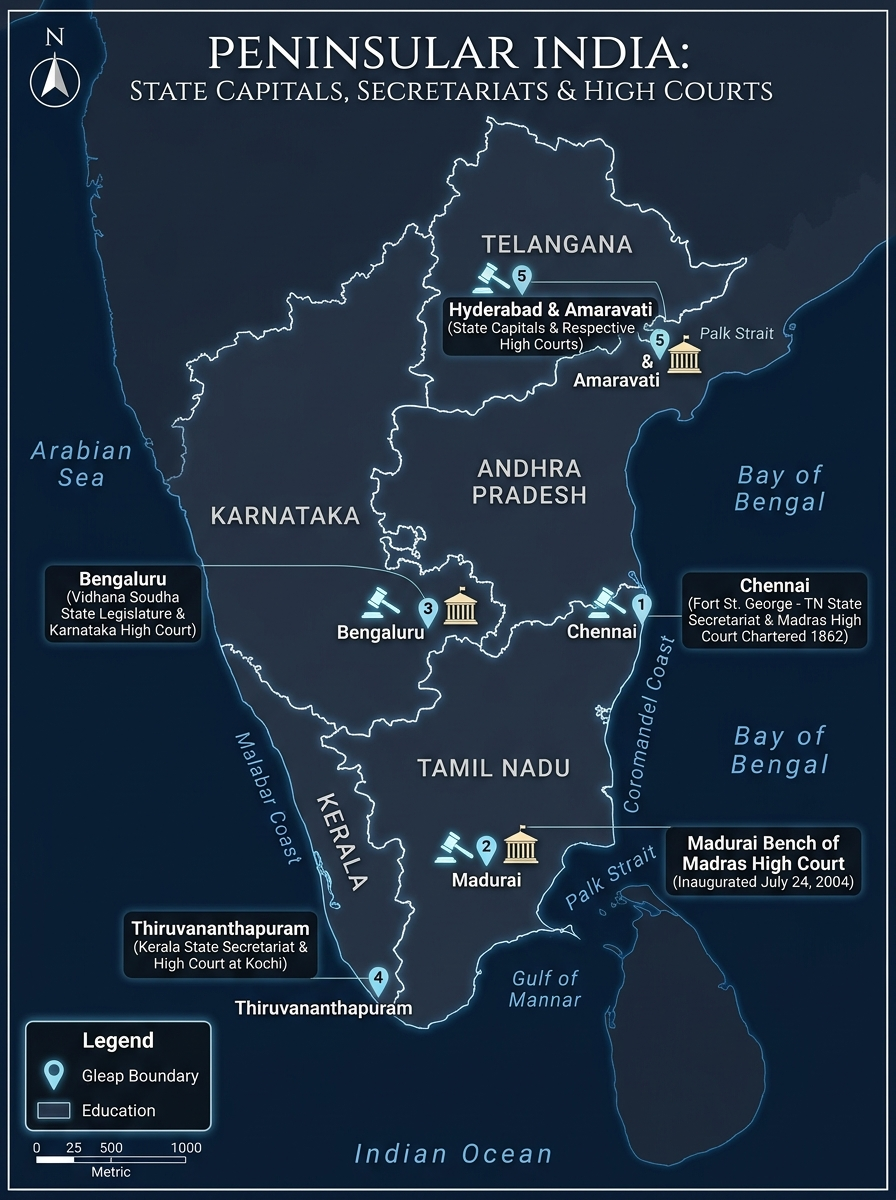
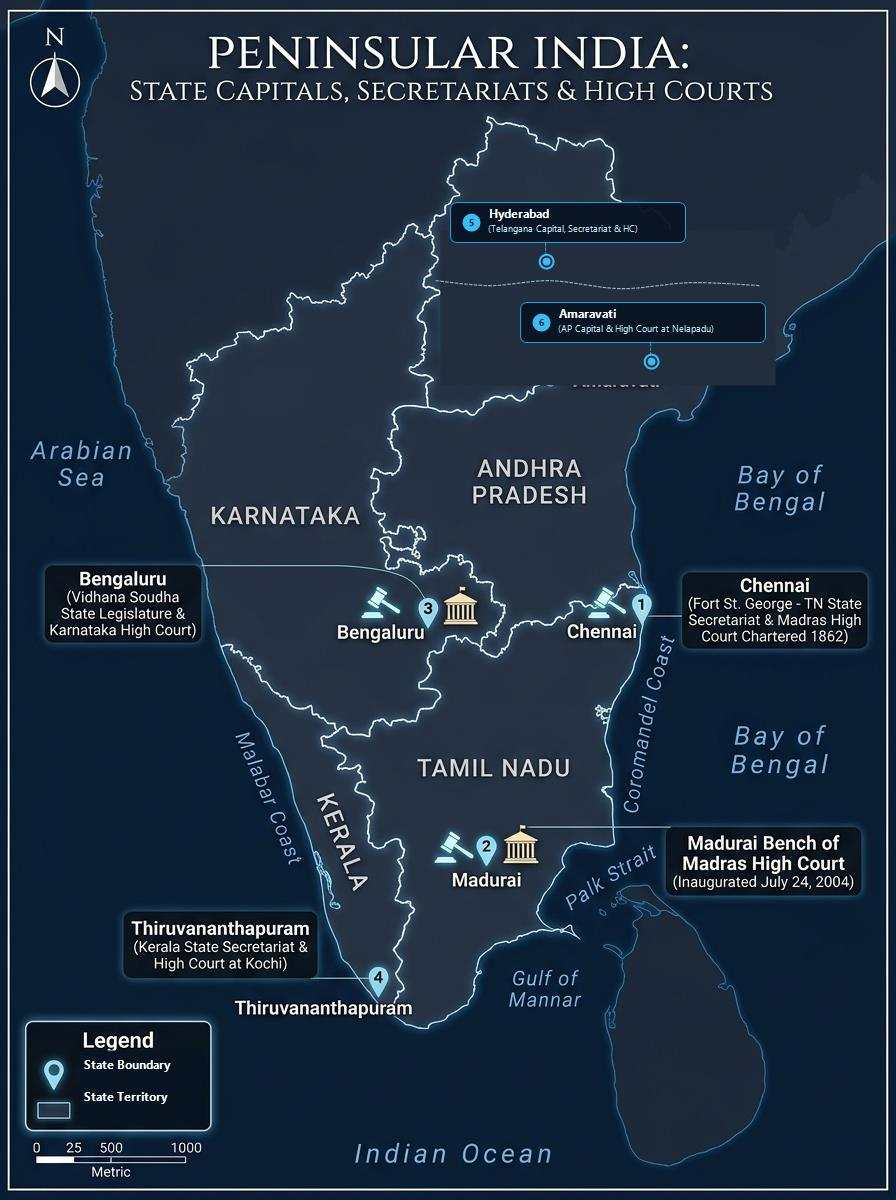
Add files via upload

Changed region(s): [[0.4688, 0.1542, 0.875, 0.3392], [0.0938, 0.8633, 0.2188, 0.9558]]

diff --git a/data_social_u6.js b/data_social_u6.js
@@ -1,4 +1,4 @@
-// 10-ஆம் வகுப்பு சமூக அறிவியல் - புவியியல் அலகு 2: இந்தியா - காலநிலை மற்றும் இயற்கை தாவரங்கள்
+// 10-ஆம் வகுப்பு சமூக அறிவியல் - புவியியல் அலகு 2: இந்தியா - காலநிலை மற்றும் இயற்கை தாவரங்கள்
 // தமிழ்நாடு அரசு சமச்சீர் கல்வி வினா-விடை வழிகாட்டி (தமிழ் வழி)
 
 const SOCIAL_UNIT_6_DATA = {
@@ -172,24 +172,30 @@ const SOCIAL_UNIT_6_DATA = {
           examYear: "2024",
           examTag: "அரசு பொதுத்தேர்வு மாதிரி வரைபடம்",
           isImportant: true,
-          q: "கொடுக்கப்பட்டுள்ள இந்திய வரைபடத்தில் காலநிலை மற்றும் இயற்கை தாவரங்கள் சார்ந்த கீழ்க்கண்ட இடங்களைக் குறித்துப் பெயரிடுக:<br>1. மௌசின்ராம் (அதிக மழை பெறும் பகுதி - 1141 செ.மீ)<br>2. சுந்தரவனக் காடுகள் / கங்கை-பிரம்மபுத்திரா டெல்டா (சதுப்புநிலக் காடுகள் / மாங்குரோவ்)<br>3. மேற்கு தொடர்ச்சி மலை (அயனமண்டல பசுமை மாறாக் காடுகள்)<br>4. தார் பாலைவனம் (பாலைவனத் தாவரங்கள் & முட்புதர்கள்)<br>5. நீலகிரி உயிர்க்கோளக் காப்பகம் (இந்தியாவின் முதல் உயிர்க்கோள காப்பகம் - 1986)<br>6. மன்னார் வளைகுடா உயிர்க்கோளக் காப்பகம்<br>7. தென்மேற்கு பருவக்காற்று திசை (அரபிக்கடல் கிளை அம்பு குறி)",
+          q: "கொடுக்கப்பட்டுள்ள இந்திய வரைபடத்தில் காலநிலை மற்றும் இயற்கை தாவரங்கள் சார்ந்த கீழ்க்கண்ட இடங்களைக் குறித்துப் பெயரிடுக:<br>1. மௌசின்ராம் (அதிக மழை பெறும் பகுதி - 1141 செ.மீ, மேகாலயா காசி குன்றுகள்)<br>2. அயனமண்டல பசுமை மாறாக் காடுகள் (மேற்குத் தொடர்ச்சி மலையின் மேற்கு சரிவு மற்றும் வடகிழக்கு இந்திய மாநிலங்கள்)<br>3. சுந்தரவனக் காடுகள் (கங்கை-பிரம்மபுத்திரா டெல்டா சதுப்புநில மாங்குரோவ் காடுகள்)<br>4. தார் பாலைவனம் (பாலைவனத் தாவரங்கள் & முட்புதர் காடுகள் - மேற்கு ராஜஸ்தான்)<br>5. நீலகிரி உயிர்க்கோளக் காப்பகம் (இந்தியாவின் முதல் உயிர்க்கோள காப்பகம் - 1986)<br>6. மன்னார் வளைகுடா கடல்சார் உயிர்க்கோளக் காப்பகம் (தமிழ்நாடு தென்கிழக்குக் கடற்கரை)<br>7. தென்மேற்கு பருவக்காற்று திசைகள் (அரபிக்கடல் கிளை மற்றும் வங்காள விரிகுடா கிளை)",
           ans: `<div style="line-height:1.8;">
             <b style="color:#0284c7; font-size:15px;">இந்தியாவின் காலநிலை & இயற்கை தாவரங்கள் வரைபட வழிகாட்டி:</b><br><br>
-            <b>1. மௌசின்ராம் (Mawsynram):</b> மேகாலயாவின் காசி குன்றுகளில் அமைந்துள்ளது; உலகிலேயே அதிக மழை பொழிவு (1,141 செ.மீ) பெறும் பகுதி.<br>
-            <b>2. சுந்தரவனம் (Sundarbans):</b> மேற்கு வங்காளத்தில் கங்கை-பிரம்மபுத்திரா டெல்டாவில் அமைந்துள்ள உலகின் மிகப்பெரிய சதுப்புநில மாங்குரோவ் காடுகள் (சுந்தரி மரங்கள்).<br>
-            <b>3. மேற்கு தொடர்ச்சி மலை (Western Ghats):</b> ஆண்டுக்கு 200 செ.மீட்டருக்கும் மேல் கனமழை பெறுவதால் அடர்ந்த அயனமண்டல பசுமை மாறாக் காடுகள் காணப்படுகின்றன.<br>
-            <b>4. தார் பாலைவனம் (Thar Desert):</b> மேற்கு ராஜஸ்தானில் ஆண்டுக்கு 25 செ.மீட்டருக்கும் குறைவாக மழை பெறும் வறண்ட பகுதி; முட்புதர்கள் மற்றும் கற்றாழை தாவரங்கள் காணப்படுகின்றன.<br>
-            <b>5. நீலகிரி உயிர்க்கோளக் காப்பகம் (Nilgiri Biosphere Reserve):</b> 1986-ஆம் ஆண்டு தமிழ்நாட்டின் மேற்குத் தொடர்ச்சி மலையில் அமைக்கப்பட்ட இந்தியாவின் முதல் உயிர்க்கோளக் காப்பகம்.<br>
-            <b>6. மன்னார் வளைகுடா (Gulf of Mannar):</b> தமிழ்நாட்டின் தென்கிழக்கு கடற்பகுதியில் அமைந்துள்ள கடல்சார் உயிர்க்கோளக் காப்பகம்.<br><br>
+            <b>1. மௌசின்ராம் (Mawsynram):</b> மேகாலயாவின் காசி குன்றுகளில் அமைந்துள்ளது; புனல் வடிவ நிலத்தோற்றத்தால் வங்காள விரிகுடா பருவக்காற்றைத் தடுத்து உலகிலேயே அதிக மழை பொழிவு (1,141 செ.மீ) பெறும் பகுதியாகும்.<br>
+            <b>2. அயனமண்டல பசுமை மாறாக் காடுகள் (Tropical Evergreen):</b> 200 செ.மீட்டருக்கும் மேல் கனமழை பெறும் பகுதிகள்: (அ) மேற்குத் தொடர்ச்சி மலையின் காற்று மோதும் மேற்குச் சரிவு, (ஆ) வடகிழக்கு இந்திய மாநிலங்களான அசாம் மற்றும் அருணாச்சலப் பிரதேச அடிவாரக் குன்றுகள், (இ) அந்தமான் நிக்கோபார் தீவுகள்.<br>
+            <b>3. சுந்தரவனம் (Sundarbans):</b> மேற்கு வங்காளத்தில் கங்கை-பிரம்மபுத்திரா நதி முகத்துவாரத்தில் அமைந்துள்ள உலகின் மிகப்பெரிய ஓதக் காடுகள் / சதுப்புநில மாங்குரோவ் காடுகள் (சுந்தரி மரங்கள், ராயல் பெங்கால் புலிகள்).<br>
+            <b>4. தார் பாலைவனம் (Thar Desert):</b> மேற்கு ராஜஸ்தானில் ஆண்டுக்கு 25 செ.மீட்டருக்கும் குறைவாக மழை பெறும் வறண்ட பகுதி; முட்புதர்கள், கற்றாழை, கருவேல மரங்கள் (பாலைவன தாவரங்கள்) காணப்படும்.<br>
+            <b>5. நீலகிரி உயிர்க்கோளக் காப்பகம் (Nilgiri Biosphere Reserve):</b> 1986-ஆம் ஆண்டு தமிழ்நாடு, கேரளா, கர்நாடகா எல்லையில் அமைக்கப்பட்ட இந்தியாவின் முதல் உயிர்க்கோளக் காப்பகம்.<br>
+            <b>6. மன்னார் வளைகுடா (Gulf of Mannar):</b> தமிழ்நாட்டின் தென்கிழக்கு கடற்பரப்பில் இந்தியா-இலங்கை இடையே அமைந்துள்ள நாட்டின் முதல் கடல்சார் உயிர்க்கோளக் காப்பகம்.<br>
+            <b>7. தென்மேற்கு பருவக்காற்று (South-West Monsoon):</b> இரு கிளைகளையும் அம்புக்குறியிட்டு காட்ட வேண்டும்: (அ) மேற்குத் தொடர்ச்சி மலையை நோக்கி வீசும் <i>அரபிக்கடல் கிளை</i>, (ஆ) வடகிழக்கு இந்தியா மற்றும் இமயமலையை ஒட்டி கங்கை சமவெளியை நோக்கி திரும்பும் <i>வங்காள விரிகுடா கிளை</i>.<br><br>
             <div style="background:#eff6ff; border-left:4px solid #2563eb; padding:10px 14px; border-radius:6px; font-size:13px; color:#1e40af;">
-              <b>🎯 பொதுத்தேர்வு குறிப்பு:</b> தென்மேற்கு பருவக்காற்று ஜூன் முதல் செப்டம்பர் வரை வீசுகிறது. அரபிக்கடல் கிளையிலிருந்து கேரளா, கொங்கண் கடற்கரையை நோக்கி அம்புக்குறியிட்டு (SW Monsoon) காட்டவும்.
+              <b>🎯 பொதுத்தேர்வு முக்கியக் குறிப்புகள் & தவறுகளைத் தவிர்க்க:</b><br>
+              • <b>பசுமை மாறாக் காடு வரைபட விதி:</b> பீகார், ஜார்க்கண்ட், மேற்கு வங்காள சமவெளிப் பகுதிகளை ஒருபோதும் பசுமை மாறாக் காடுகளாக நிழலிடக் கூடாது! இப்பகுதிகள் 100-200 செ.மீ மழை பெறும் <i>அயனமண்டல இலையுதிர் காடுகள் (Deciduous Forests)</i> ஆகும்.<br>
+              • <b>சுந்தரவனம்:</b> கடற்கரை டெல்டா முகத்துவாரத்தில் சதுப்புநில மாங்குரோவ் காடாக மட்டுமே தனியாகக் குறித்துக் காட்ட வேண்டும்.<br>
+              • <b>பருவக்காற்று:</b> அரபிக்கடல் கிளை மற்றும் வங்காள விரிகுடா கிளை ஆகிய இரண்டு கிளைகளின் திசைகளையும் தெளிவாகக் காட்டவும்.
             </div>
           </div>`,
-          ansTamil: "மௌசின்ராம் (அதிக மழை), சுந்தரவனம் (சதுப்புநில காடுகள்), மேற்கு தொடர்ச்சி மலை (பசுமை மாறா காடுகள்), தார் பாலைவனம், நீலகிரி & மன்னார் வளைகுடா உயிர்க்கோள காப்பகங்கள்.",
+          ansTamil: "மௌசின்ராம் (அதிக மழை), பசுமை மாறாக் காடுகள் (மேற்கு தொடர்ச்சி மலை & வடகிழக்கு மாநிலங்கள்), சுந்தரவனம் (சதுப்புநில காடு), தார் பாலைவனம், நீலகிரி & மன்னார் வளைகுடா காப்பகங்கள், தென்மேற்கு பருவக்காற்று (இரு கிளைகள்).",
           diagramImg: "images/soc_climate_map.jpg",
-          diagramCaption: "இந்திய வரைபடம்: காலநிலை & இயற்கை தாவரங்கள் (Mawsynram, Sundarbans, Western Ghats & Thar)"
+          diagramCaption: "இந்திய வரைபடம்: காலநிலை, பருவக்காற்று கிளைகள் மற்றும் இயற்கை தாவரங்கள்"
         }
       ]
     }
   ]
 };
+
+if (typeof window !== 'undefined') { window.SOCIAL_UNIT_6_DATA = SOCIAL_UNIT_6_DATA; }

diff --git a/data_social_u12.js b/data_social_u12.js
@@ -1,4 +1,4 @@
-// 10-ஆம் வகுப்பு சமூக அறிவியல் - பொருளியல் அலகு 3: உணவு பாதுகாப்பு மற்றும் ஊட்டச்சத்து (Food Security and Nutrition)
+// 10-ஆம் வகுப்பு சமூக அறிவியல் - பொருளியல் அலகு 3: உணவு பாதுகாப்பு மற்றும் ஊட்டச்சத்து (Food Security and Nutrition)
 // தமிழ்நாடு அரசு சமச்சீர் கல்வி வினா-விடை வழிகாட்டி (தமிழ் வழி)
 
 const SOCIAL_UNIT_12_DATA = {
@@ -191,7 +191,7 @@ const SOCIAL_UNIT_12_DATA = {
   ,
     {
       id: "sec_soc_12_map",
-      title: "வரைபடப் பயிற்சி (Map Q&A)",
+      title: "வரைபடப் பயிற்சி: உணவுப் பாதுகாப்பு & களஞ்சியங்கள் (Map Q&A)",
       author: "பொருளியல் - அலகு 3 வரைபட வழிகாட்டி",
       questions: [
         {
@@ -201,21 +201,25 @@ const SOCIAL_UNIT_12_DATA = {
           examYear: "2024",
           examTag: "அரசு பொதுத்தேர்வு மாதிரி வரைபடம்",
           isImportant: true,
-          q: "கொடுக்கப்பட்டுள்ள இந்திய வரைபடத்தில் உணவுப் பாதுகாப்பு, பசுமைப் புரட்சி மற்றும் தானியக் களஞ்சியங்களுடன் தொடர்புடைய கீழ்க்கண்ட பகுதிகளைக் குறிக்கவும்:<br>1. பஞ்சாப் (இந்தியாவின் தானியக் களஞ்சியம் - பசுமைப் புரட்சியின் தாயகம்)<br>2. ஹரியானா (முக்கிய கோதுமை உபரி உற்பத்தி மாநிலம்)<br>3. தஞ்சாவூர் (தமிழ்நாட்டின் நெற்களஞ்சியம் - காவிரி டெல்டா)<br>4. சென்னை (தமிழ்நாடு நுகர்பொருள் வாணிபக் கழக தலைமை அலுவலகம் - TNCSC)<br>5. உத்தர பிரதேசம் (நாட்டின் முன்னணி கரும்பு மற்றும் கோதுமை உற்பத்தியாளர்)",
+          q: "கொடுக்கப்பட்டுள்ள இந்திய வரைபடத்தில் உணவுப் பாதுகாப்பு, பசுமைப் புரட்சி, தானியக் களஞ்சியங்கள் மற்றும் PDS மையங்களைக் குறித்துப் பெயரிடுக:<br>1. பஞ்சாப் (இந்தியாவின் தானியக் களஞ்சியம் - பசுமைப் புரட்சியின் தாயகம்)<br>2. ஹரியானா (முக்கிய உபரி கோதுமை உற்பத்தி மாநிலம் - வடமேற்கு கோதுமை மண்டலம்)<br>3. உத்தர பிரதேசம் (நாட்டின் முன்னணி கரும்பு மற்றும் கோதுமை உற்பத்தியாளர்)<br>4. தஞ்சாவூர் / காவிரி டெல்டா (தமிழ்நாட்டின் நெற்களஞ்சியம் / தென்னிந்திய தானியக் களஞ்சியம்)<br>5. சென்னை (தமிழ்நாடு நுகர்பொருள் வாணிபக் கழகத்தின் தலைமை அலுவலகம் - TNCSC உலகளாவிய PDS)<br>6. புது தில்லி (இந்திய உணவு கழகத்தின் தேசிய தலைமை அலுவலகம் - FCI தாங்கு இருப்பு)",
           ans: `<div style="line-height:1.8;">
             <b style="color:#0284c7; font-size:15px;">உணவுப் பாதுகாப்பு மற்றும் தானியக் களஞ்சியங்கள் வரைபட வழிகாட்டி:</b><br><br>
-            <b>1. பஞ்சாப் (Punjab):</b> 'இந்தியாவின் தானியக் களஞ்சியம்' (Granary of India); 1960-களில் அதிக விளைச்சல் தரும் கோதுமை விதைகளுடன் பசுமைப் புரட்சி வெற்றிகரமாக அறிமுகப்படுத்தப்பட்ட முன்னோடி மாநிலம்.<br>
-            <b>2. ஹரியானா (Haryana):</b> நடுவண் உணவு தானிய தாங்கு இருப்புக்கு (Buffer Stock) அதிக கோதுமை மற்றும் அரிசியை வழங்கும் முக்கிய வட இந்திய மாநிலம்.<br>
-            <b>3. தஞ்சாவூர் (Thanjavur):</b> 'தமிழ்நாட்டின் நெற்களஞ்சியம்' (Rice Bowl of Tamil Nadu); காவிரி டெல்டாவின் வளமான வண்டல் மண்ணில் முப்போகம் நெல் விளையும் வரலாற்று சிறப்புமிக்க மாவட்டம்.<br>
-            <b>4. சென்னை (Chennai):</b> உலகளாவிய பொது விநியோக முறையை (Universal PDS) நிர்வகிக்கும் தமிழ்நாடு நுகர்பொருள் வாணிபக் கழகத்தின் (TNCSC) தலைமை அலுவலகம் அமைந்துள்ள தலைநகரம்.<br>
-            <b>5. உத்தர பிரதேசம் (Uttar Pradesh):</b> இந்தியாவின் அதிக மக்கள்தொகை கொண்ட மற்றும் கரும்பு, கோதுமை உற்பத்தியில் முதலிடம் வகிக்கும் பிரதான விவசாய மாநிலம்.<br><br>
+            <b>1. பஞ்சாப் (Punjab):</b> 'இந்தியாவின் தானியக் களஞ்சியம்' (Granary of India); 1960-களில் டாக்டர் எம்.எஸ். சுவாமிநாதன் தலைமையில் அதிக விளைச்சல் தரும் கோதுமை விதைகளுடன் பசுமைப் புரட்சி வெற்றிகரமாக அறிமுகப்படுத்தப்பட்ட முன்னோடி மாநிலம்.<br>
+            <b>2. ஹரியானா (Haryana):</b> நடுவண் உணவு தானிய தாங்கு இருப்புக்கு (Buffer Stock) அதிக கோதுமை மற்றும் அரிசியை வழங்கும் முக்கிய வடமேற்கு கோதுமை மண்டல மாநிலம்.<br>
+            <b>3. உத்தர பிரதேசம் (Uttar Pradesh):</b> இந்தியாவின் அதிக மக்கள்தொகை கொண்ட விவசாய மாநிலம்; கரும்பு, கோதுமை மற்றும் உருளைக்கிழங்கு உற்பத்தியில் தேசிய அளவில் முதலிடம் வகிக்கிறது.<br>
+            <b>4. தஞ்சாவூர் (Thanjavur / Cauvery Delta):</b> 'தமிழ்நாட்டின் நெற்களஞ்சியம்' (Rice Bowl of Tamil Nadu); காவிரி டெல்டாவின் வளமான வண்டல் மண்ணில் முப்போகம் நெல் விளையும் வரலாற்று சிறப்புமிக்க வேளாண் மண்டலம்.<br>
+            <b>5. சென்னை (Chennai):</b> அனைத்து குடும்ப அட்டைதாரர்களுக்கும் பாரபட்சமின்றி உணவுப் பொருட்களை வழங்கும் உலகளாவிய பொது விநியோக முறையை (Universal PDS) நிர்வகிக்கும் தமிழ்நாடு நுகர்பொருள் வாணிபக் கழகத்தின் (TNCSC) தலைமை அலுவலகம்.<br>
+            <b>6. புது தில்லி (New Delhi):</b> உணவு தானியங்களை விவசாயிகளிடமிருந்து குறைந்தபட்ச ஆதரவு விலையில் (MSP) கொள்முதல் செய்து, தேசிய தாங்கு இருப்பைப் பராமரிக்கும் இந்திய உணவு கழகத்தின் (FCI) தலைமை அலுவலகம்.<br><br>
             <div style="background:#eff6ff; border-left:4px solid #2563eb; padding:10px 14px; border-radius:6px; font-size:13px; color:#1e40af;">
-              <b>🎯 பொதுத்தேர்வு குறிப்பு:</b> தேசிய அளவில் பசுமைப் புரட்சியின் தந்தை எம்.எஸ். சுவாமிநாதன். பஞ்சாப் நாட்டின் முதன்மை கோதுமை களஞ்சியம்; தஞ்சாவூர் தமிழகத்தின் நெற்களஞ்சியம்.
+              <b>🎯 பொதுத்தேர்வு முக்கியக் குறிப்புகள் & தவறுகளைத் தவிர்க்க:</b><br>
+              • <b>கோதுமை மண்டல நிற ஒற்றுமை:</b> ஹரியானா கோதுமை உபரி மாநிலம் என்பதால், பஞ்சாப் மற்றும் உத்தர பிரதேசத்தை போலவே அதே மஞ்சள்/காவி நிறத்தில் ஒரே தொடர்ச்சியான கோதுமை மண்டலமாக குறிக்க வேண்டும்.<br>
+              • <b>காவிரி டெல்டா வரைபட விதி:</b> தமிழ்நாடு முழுவதையும் நெல் டெல்டாவாக நிழலிடக் கூடாது! தஞ்சாவூர், திருவாரூர், நாகப்பட்டினம் ஆகிய காவிரி டெல்டா மாவட்டப் பகுதிகளை மட்டுமே தனியாகப் பச்சையாக நிழலிட்டு தஞ்சாவூரை கடற்கரை முகத்துவாரத்தில் துல்லியமாகக் குறிக்க வேண்டும்.<br>
+              • <b>PDS மையங்கள்:</b> தேசிய தாங்கு இருப்பு மேலாண்மை நடுவண் மையம் FCI (புது தில்லி); தமிழக உலகளாவிய நியாயவிலைக் கடை நிர்வாக மையம் TNCSC (சென்னை).
             </div>
           </div>`,
-          ansTamil: "பஞ்சாப் (இந்தியாவின் களஞ்சியம்), ஹரியானா (கோதுமை), தஞ்சாவூர் (தமிழக நெற்களஞ்சியம்), சென்னை (TNCSC), உ.பி (கரும்பு/கோதுமை).",
+          ansTamil: "பஞ்சாப் (இந்தியாவின் களஞ்சியம்), ஹரியானா (கோதுமை உபரி), உ.பி (கரும்பு/கோதுமை), தஞ்சாவூர் (தமிழக நெற்களஞ்சியம்), சென்னை (TNCSC), புது தில்லி (FCI).",
           diagramImg: "images/soc_food_map.jpg",
-          diagramCaption: "இந்திய வரைபடம்: உணவுப் பாதுகாப்பு & இந்தியாவின் தானியக் களஞ்சியங்கள்"
+          diagramCaption: "இந்திய வரைபடம்: உணவுப் பாதுகாப்பு, கோதுமை மண்டலம், காவிரி நெல் டெல்டா மற்றும் PDS மையங்கள்"
         }
       ]
     }
@@ -225,3 +229,5 @@ const SOCIAL_UNIT_12_DATA = {
 if (typeof module !== 'undefined' && module.exports) {
   module.exports = SOCIAL_UNIT_12_DATA;
 }
+
+if (typeof window !== 'undefined') { window.SOCIAL_UNIT_12_DATA = SOCIAL_UNIT_12_DATA; }

diff --git a/data_social_u11.js b/data_social_u11.js
@@ -1,4 +1,4 @@
-// 10-ஆம் வகுப்பு சமூக அறிவியல் - குடிமையியல் அலகு 3: மாநில அரசு (State Government)
+// 10-ஆம் வகுப்பு சமூக அறிவியல் - குடிமையியல் அலகு 3: மாநில அரசு (State Government)
 // தமிழ்நாடு அரசு சமச்சீர் கல்வி வினா-விடை வழிகாட்டி (தமிழ் வழி)
 
 const SOCIAL_UNIT_11_DATA = {
@@ -201,7 +201,7 @@ const SOCIAL_UNIT_11_DATA = {
   ,
     {
       id: "sec_soc_11_map",
-      title: "வரைபடப் பயிற்சி (Map Q&A)",
+      title: "வரைபடப் பயிற்சி: மாநில அரசு & உயர் நீதிமன்றங்கள் (Map Q&A)",
       author: "குடிமையியல் - அலகு 3 வரைபட வழிகாட்டி",
       questions: [
         {
@@ -211,21 +211,25 @@ const SOCIAL_UNIT_11_DATA = {
           examYear: "2024",
           examTag: "அரசு பொதுத்தேர்வு மாதிரி வரைபடம்",
           isImportant: true,
-          q: "கொடுக்கப்பட்டுள்ள இந்திய வரைபடத்தில் மாநில அரசின் நிர்வாகத் தலைநகரங்கள் மற்றும் உயர் நீதிமன்ற மையங்களைக் குறித்துப் பெயரிடுக:<br>1. சென்னை (தமிழ்நாடு தலைமைச் செயலகம், புனித ஜார்ஜ் கோட்டை & மெட்ராஸ் உயர் நீதிமன்றம்)<br>2. மதுரை (மெட்ராஸ் உயர் நீதிமன்றத்தின் மதுரை கிளை - 2004)<br>3. திருவனந்தபுரம் (கேரளா மாநிலத் தலைநகரம்)<br>4. பெங்களூரு (கர்நாடக மாநிலத் தலைநகரம்)<br>5. ஹைதராபாத் / அமராவதி (தெலங்கானா & ஆந்திரப் பிரதேசம்)",
+          q: "கொடுக்கப்பட்டுள்ள இந்திய வரைபடத்தில் தென்னிந்திய மாநிலங்களின் நிர்வாகத் தலைநகரங்கள், தலைமைச் செயலகங்கள் மற்றும் உயர் நீதிமன்ற மையங்களைக் குறித்துப் பெயரிடுக:<br>1. சென்னை (தமிழ்நாடு தலைமைச் செயலகம் - புனித ஜார்ஜ் கோட்டை & மெட்ராஸ் உயர் நீதிமன்ற முதன்மை அமர்வு 1862)<br>2. மதுரை (மெட்ராஸ் உயர் நீதிமன்ற நிரந்தர மதுரை கிளை - ஜூலை 24, 2004)<br>3. பெங்களூரு (கர்நாடக மாநில சட்டமன்றம் விதான சவுதா & உயர் நீதிமன்றம் அத்தர கச்சேரி)<br>4. திருவனந்தபுரம் (கேரள மாநில தலைமைச் செயலகம்; உயர் நீதிமன்றம் கொச்சியில்/எர்ணாகுளத்தில் உள்ளது)<br>5. ஹைதராபாத் (தெலங்கானா மாநிலத் தலைநகரம், தலைமைச் செயலகம் & தெலங்கானா உயர் நீதிமன்றம்)<br>6. அமராவதி (ஆந்திரப் பிரதேச தலைநகரம் & நெலப்பாடு ஆந்திர உயர் நீதிமன்றம் - கிருஷ்ணா நதிக்கரை)",
           ans: `<div style="line-height:1.8;">
             <b style="color:#0284c7; font-size:15px;">மாநில அரசு நிர்வாகத் தலைநகரங்கள் மற்றும் உயர் நீதிமன்ற மையங்கள் வழிகாட்டி:</b><br><br>
-            <b>1. சென்னை (Chennai):</b> தமிழ்நாடு மாநில அரசின் தலைமைச் செயலகம் அமைந்துள்ள புனித ஜார்ஜ் கோட்டை மற்றும் வரலாற்றுச் சிறப்புமிக்க மெட்ராஸ் உயர் நீதிமன்றத்தின் முதன்மை அமர்வு அமைந்துள்ள தலைநகரம்.<br>
-            <b>2. மதுரை (Madurai):</b> தென் மாவட்ட மக்களின் வசதிக்காக 2004-ஆம் ஆண்டு தொடங்கப்பட்ட மெட்ராஸ் உயர் நீதிமன்றத்தின் மதுரை நிரந்தரக் கிளை அமைந்துள்ள வரலாற்று சிறப்புமிக்க தூங்கா நகரம்.<br>
-            <b>3. திருவனந்தபுரம் (Thiruvananthapuram):</b> அண்டை மாநிலமான கேரளாவின் நிர்வாகத் தலைநகரம்.<br>
-            <b>4. பெங்களூரு (Bengaluru):</b> கர்நாடக மாநில சட்டமன்றம் (விதான சவுதா) மற்றும் கர்நாடக உயர் நீதிமன்றம் அமைந்துள்ள மாநிலத் தலைநகரம்.<br>
-            <b>5. ஹைதராபாத் (Hyderabad):</b> தெலங்கானா மாநிலத் தலைநகரம் மற்றும் உயர் நீதிமன்ற மையம்.<br><br>
+            <b>1. சென்னை (Chennai):</b> தமிழ்நாட்டின் தலைநகரம்; தமிழ்நாடு அரசின் தலைமைச் செயலகம் மற்றும் சட்டமன்றம் அமைந்துள்ள புனித ஜார்ஜ் கோட்டை மற்றும் 1862-இல் நிறுவப்பட்ட வரலாற்று சிறப்புமிக்க மெட்ராஸ் உயர் நீதிமன்றத்தின் முதன்மை அமர்வு இங்கு அமைந்துள்ளது.<br>
+            <b>2. மதுரை (Madurai):</b> தென் மாவட்ட மக்களின் நீதித்துறை வசதிக்காக ஜூலை 24, 2004-இல் திறக்கப்பட்ட மெட்ராஸ் உயர் நீதிமன்றத்தின் நிரந்தர மதுரை கிளை அமைந்துள்ள வரலாற்று சிறப்புமிக்க பண்பாட்டுத் தலைநகரம்.<br>
+            <b>3. பெங்களூரு (Bengaluru):</b> கர்நாடக மாநிலத் தலைநகரம்; மாநில சட்டமன்றமான விதான சவுதா மற்றும் கர்நாடக உயர் நீதிமன்றம் (அத்தர கச்சேரி) இங்கு அமைந்துள்ளன.<br>
+            <b>4. திருவனந்தபுரம் (Thiruvananthapuram):</b> கேரள மாநிலத்தின் நிர்வாகத் தலைநகரம் மற்றும் தலைமைச் செயலகம். (முக்கிய தேர்வு குறிப்பு: கேரள மாநில உயர் நீதிமன்றம் தலைநகரில் இல்லாமல் கொச்சியில்/எர்ணாகுளத்தில் அமைந்துள்ளது).<br>
+            <b>5. ஹைதராபாத் (Hyderabad):</b> மத்திய மேற்கு தெலங்கானாவில் அமைந்துள்ள தெலங்கானா மாநிலத் தலைநகரம், தலைமைச் செயலகம் மற்றும் உயர் நீதிமன்ற மையம்.<br>
+            <b>6. அமராவதி (Amaravati):</b> மத்திய ஆந்திரக் கடற்கரையில் கிருஷ்ணா நதிக்கரையில் அமைந்துள்ள ஆந்திரப் பிரதேசத்தின் தலைநகரம்; நெலப்பாட்டில் அமைந்துள்ள ஆந்திர உயர் நீதிமன்ற மையம்.<br><br>
             <div style="background:#eff6ff; border-left:4px solid #2563eb; padding:10px 14px; border-radius:6px; font-size:13px; color:#1e40af;">
-              <b>🎯 பொதுத்தேர்வு குறிப்பு:</b> சரத்து 214-ன்படி ஒவ்வொரு மாநிலத்திற்கும் ஒரு உயர் நீதிமன்றம் இருக்க வேண்டும். சென்னை (முதன்மை அமர்வு) மற்றும் மதுரை (2004 கிளை) ஆகிய இரு அமர்வுகளையும் தமிழ்நாட்டில் துல்லியமாகக் குறித்துக் காட்டவும்.
+              <b>🎯 பொதுத்தேர்வு முக்கியக் குறிப்புகள் & தவறுகளைத் தவிர்க்க:</b><br>
+              • <b>ஹைதராபாத் & அமராவதி வேறுபாடு:</b> இவ்விரு நகரங்களையும் எல்லையில் ஒன்றாகக் குறிக்கக் கூடாது! ஹைதராபாத் மத்திய மேற்கு தெலங்கானாவிலும், அமராவதி மத்திய கடற்கரை ஆந்திராவில் கிருஷ்ணா நதிக்கரையிலும் தனித்தனியாகக் குறிக்கப்பட வேண்டும்.<br>
+              • <b>தலைநகருக்கு வெளியே உயர் நீதிமன்றம்:</b> கேரள உயர் நீதிமன்றம் <i>கொச்சி (எர்ணாகுளம்)</i> நகரில் உள்ளது. தமிழ்நாட்டில் சென்னை (முதன்மை அமர்வு) மற்றும் மதுரை (2004 கிளை) ஆகிய இரு அமர்வுகளையும் துல்லியமாகக் குறித்துக் காட்டவும்.<br>
+              • <b>பாக் நீர்சந்தி:</b> தமிழ்நாடு மற்றும் இலங்கைக்கு இடையே மட்டுமே உள்ளது (ஆந்திரக் கடற்கரையில் இல்லை).
             </div>
           </div>`,
-          ansTamil: "சென்னை (தலைமைச் செயலகம் & உயர் நீதிமன்றம்), மதுரை (உயர் நீதிமன்ற கிளை), திருவனந்தபுரம், பெங்களூரு, ஹைதராபாத்.",
+          ansTamil: "சென்னை (தலைமைச் செயலகம் & உயர் நீதிமன்றம்), மதுரை (உயர் நீதிமன்ற கிளை), திருவனந்தபுரம், பெங்களூரு, ஹைதராபாத், அமராவதி.",
           diagramImg: "images/soc_stategov_map.jpg",
-          diagramCaption: "இந்திய வரைபடம்: மாநில அரசு நிர்வாகத் தலைநகரங்கள் & உயர் நீதிமன்றங்கள்"
+          diagramCaption: "இந்திய வரைபடம்: தென்னிந்திய மாநிலத் தலைநகரங்கள், செயலகங்கள் மற்றும் உயர் நீதிமன்றங்கள்"
         }
       ]
     }
@@ -235,3 +239,5 @@ const SOCIAL_UNIT_11_DATA = {
 if (typeof module !== 'undefined' && module.exports) {
   module.exports = SOCIAL_UNIT_11_DATA;
 }
+
+if (typeof window !== 'undefined') { window.SOCIAL_UNIT_11_DATA = SOCIAL_UNIT_11_DATA; }

diff --git a/data_social_em_u6.js b/data_social_em_u6.js
@@ -1,4 +1,4 @@
-// Class 10 Social Science - Geography Unit 2: India - Climate and Natural Vegetation
+// Class 10 Social Science - Geography Unit 2: India - Climate and Natural Vegetation
 // Tamil Nadu State Board Samacheer Kalvi Question-Answer Guide (English Medium)
 
 const SOCIAL_EM_UNIT_6_DATA = {
@@ -157,7 +157,7 @@ const SOCIAL_EM_UNIT_6_DATA = {
   ,
     {
       id: "sec_soc_em_6_map",
-      title: "Map Identification & Practice: Climate & Vegetation (8M)",
+            title: "Map Identification & Practice: Climate & Vegetation (8M)",
       author: "Geography Unit 2 Map Tutor",
       questions: [
         {
@@ -167,25 +167,30 @@ const SOCIAL_EM_UNIT_6_DATA = {
           examYear: "2024",
           examTag: "Board Exam Model Map",
           isImportant: true,
-          q: "On the given outline map of India, mark and label the following geographical features related to Climate and Natural Vegetation:<br>1. Mawsynram (Wettest place in the world - 1141 cm rainfall)<br>2. Tropical Evergreen Forest belt along the Western Coast<br>3. Sundarbans Mangrove Forest (Ganga-Brahmaputra Delta)<br>4. Thar Desert Arid Scrub Vegetation region<br>5. Nilgiri Biosphere Reserve (India's first biosphere reserve)<br>6. Gulf of Mannar Marine Biosphere Reserve<br>7. Direction of South-West Monsoon Winds (Arabian Sea branch)",
+          q: "On the given outline map of India, mark and label the following geographical features related to Climate and Natural Vegetation:<br>1. Mawsynram (Wettest place in the world - 1,141 cm rainfall in Khasi Hills, Meghalaya)<br>2. Tropical Evergreen Forests (Western slopes of Western Ghats & Northeast India hill states)<br>3. Sundarbans (Tidal Mangrove Forest in the Ganga-Brahmaputra Delta)<br>4. Thar Desert (Arid Thorny Scrub Vegetation region of western Rajasthan)<br>5. Nilgiri Biosphere Reserve (India's first biosphere reserve established in 1986)<br>6. Gulf of Mannar Marine Biosphere Reserve (Southeastern coast of Tamil Nadu)<br>7. South-West Monsoon Winds (Arabian Sea branch & Bay of Bengal branch)",
           ans: `<div style="line-height:1.8;">
             <b style="color:#0284c7; font-size:15px;">Climate, Rainfall & Natural Vegetation Map Guide:</b><br><br>
-            <b>1. Mawsynram:</b> Located in the Khasi Hills of Meghalaya; receives the highest average annual rainfall in the world (1,141 cm) due to the funnel-shaped relief trapping Bay of Bengal monsoon winds.<br>
-            <b>2. Tropical Evergreen Forests:</b> Dense evergreen belt along the windward slopes of the Western Ghats receiving more than 200 cm rainfall (Rosewood, Ebony, Mahogany, Bamboo).<br>
-            <b>3. Sundarbans:</b> World's largest tidal halophytic mangrove forest situated in the Ganga-Brahmaputra delta across West Bengal (Sundari trees, Royal Bengal Tiger habitat).<br>
-            <b>4. Thar Desert:</b> Arid desert scrub and thorny vegetation in western Rajasthan receiving less than 25 cm annual rainfall (Khejri, Cacti, Babool).<br>
-            <b>5. Nilgiri Biosphere Reserve:</b> India's first designated biosphere reserve (1986), situated at the tri-junction of Tamil Nadu, Kerala, and Karnataka.<br>
-            <b>6. Gulf of Mannar Marine Biosphere Reserve:</b> India's first marine biosphere reserve located off the southeastern coast of Tamil Nadu.<br>
-            <b>7. South-West Monsoon Winds:</b> Southwest to northeast wind arrows depicting the Arabian Sea branch striking the Western Ghats.<br><br>
+            <b>1. Mawsynram:</b> Located in the Khasi Hills of Meghalaya; receives the highest average annual rainfall in the world (1,141 cm) due to the funnel-shaped relief trapping moisture-laden Bay of Bengal monsoon winds.<br>
+            <b>2. Tropical Evergreen Forests:</b> Found in areas receiving more than 200 cm rainfall: (a) A narrow continuous strip along the windward western slopes of the Western Ghats (Kerala, Karnataka, Maharashtra), (b) Upper Assam and Arunachal Pradesh foothills in Northeast India, and (c) Andaman and Nicobar Islands.<br>
+            <b>3. Sundarbans Mangrove Forest:</b> World's largest tidal halophytic mangrove delta located at the coastal mouth of Ganga and Brahmaputra in West Bengal (Sundari trees, Royal Bengal Tiger). Must be marked at the coast, distinctly from inland forests.<br>
+            <b>4. Thar Desert:</b> Arid desert scrub and thorny vegetation in western Rajasthan receiving less than 25 cm annual rainfall (Khejri, Cacti, Babool, Acacia).<br>
+            <b>5. Nilgiri Biosphere Reserve:</b> India's first designated biosphere reserve (1986), situated at the mountainous tri-junction of Tamil Nadu, Kerala, and Karnataka.<br>
+            <b>6. Gulf of Mannar Marine Biosphere Reserve:</b> India's first marine biosphere reserve located in the shallow waters between southeastern Tamil Nadu and Sri Lanka.<br>
+            <b>7. South-West Monsoon Winds:</b> Depict both branches using directional arrows: (a) <i>Arabian Sea branch</i> striking the Western Ghats from south-west to north-east, and (b) <i>Bay of Bengal branch</i> moving north-east into Assam and recurving westward along the Himalayas across the Gangetic plain.<br><br>
             <div style="background:#eff6ff; border-left:4px solid #2563eb; padding:10px 14px; border-radius:6px; font-size:13px; color:#1e40af;">
-              <b>ðŸŽ¯ Board Exam Tip:</b> Clearly distinguish forest shading (dark green for evergreen, striped green for mangroves) and use distinct direction arrows for the South-West Monsoon.
+              <b>🎯 Critical Board Exam Traps & Rules:</b><br>
+              • <b>Deciduous vs. Evergreen:</b> Never shade Bihar, Jharkhand, or inland Gangetic plains as Evergreen! They receive 100–200 cm rainfall and are strictly <i>Tropical Deciduous (Moist & Dry Deciduous) Forests</i>.<br>
+              • <b>Sundarbans:</b> Shade specifically as <i>Mangrove / Tidal Forest</i> at the delta shoreline, never merged with inland evergreen.<br>
+              • <b>Monsoon Winds:</b> Always draw both the Arabian Sea and Bay of Bengal branches to secure full marks.
             </div>
           </div>`,
-          explanation: "Distribution of high-rainfall zones, monsoon wind trajectories, and natural forest ecosystems in India.",
+          explanation: "Accurate cartographic distribution of high-rainfall zones, monsoon wind branches, biosphere reserves, and natural forest ecosystems in India.",
           diagramImg: "images/soc_climate_map.jpg",
-          diagramCaption: "India Map: Climate, Rainfall Zones and Natural Vegetation of India"
+          diagramCaption: "India Map: Climate, Rainfall Zones, Monsoon Branches and Natural Vegetation of India"
         }
       ]
     }
   ]
 };
+
+if (typeof window !== 'undefined') { window.SOCIAL_EM_UNIT_6_DATA = SOCIAL_EM_UNIT_6_DATA; }

diff --git a/data_social_em_u12.js b/data_social_em_u12.js
@@ -1,4 +1,4 @@
-// Class 10 Social Science - Economics Unit 3: Food Security and Nutrition
+// Class 10 Social Science - Economics Unit 3: Food Security and Nutrition
 // Tamil Nadu State Board Samacheer Kalvi Question-Answer Guide (English Medium)
 
 const SOCIAL_EM_UNIT_12_DATA = {
@@ -186,7 +186,7 @@ const SOCIAL_EM_UNIT_12_DATA = {
   ,
     {
       id: "sec_soc_em_12_map",
-      title: "Map Identification & Practice: Food Security & Granaries (8M)",
+            title: "Map Identification & Practice: Food Security & Granaries (8M)",
       author: "Economics Unit 3 Map Tutor",
       questions: [
         {
@@ -196,21 +196,25 @@ const SOCIAL_EM_UNIT_12_DATA = {
           examYear: "2024",
           examTag: "Board Exam Model Map",
           isImportant: true,
-          q: "On the given outline map of India, mark and label the key states and centers associated with Food Security, the Green Revolution, and grain procurement:<br>1. Punjab (Granary of India - Cradle of the Green Revolution)<br>2. Haryana (Major surplus wheat and rice procurement state for central buffer stocks)<br>3. Thanjavur (Granary of South India / Rice Bowl of Tamil Nadu - Cauvery Delta)<br>4. Chennai (Headquarters of Tamil Nadu Civil Supplies Corporation - TNCSC)<br>5. Uttar Pradesh (India's leading producer of sugarcane, wheat, and foodgrains)",
+          q: "On the given outline map of India, mark and label the key agrarian granaries, Green Revolution centers, and PDS management nodes:<br>1. Punjab (Granary of India - Cradle of Green Revolution with HYV wheat seeds & canals)<br>2. Haryana (Surplus wheat and dairy producing powerhouse - continuous North-Western Wheat Belt)<br>3. Uttar Pradesh (India's leading producer of wheat, sugarcane, and food grains)<br>4. Thanjavur / Cauvery Delta (Granary of South India / Rice Bowl of Tamil Nadu)<br>5. Chennai (Headquarters of Tamil Nadu Civil Supplies Corporation - TNCSC Universal PDS)<br>6. New Delhi (National Headquarters of Food Corporation of India - FCI Central Buffer Stocks)",
           ans: `<div style="line-height:1.8;">
-            <b style="color:#0284c7; font-size:15px;">Food Security and Granaries of India Map Guide:</b><br><br>
-            <b>1. Punjab:</b> Granary of India; pioneer state of the Green Revolution during the 1960s utilizing High Yielding Variety (HYV) seeds, modern irrigation canals, and fertilizers.<br>
-            <b>2. Haryana:</b> Major contributor to the Food Corporation of India (FCI) national buffer stocks through intensive grain procurement.<br>
-            <b>3. Thanjavur:</b> Granary of South India / Rice Bowl of Tamil Nadu; fertile alluvial delta of River Cauvery supporting intensive triple-crop paddy farming.<br>
-            <b>4. Chennai:</b> Headquarters of the Tamil Nadu Civil Supplies Corporation (TNCSC), which operates the state's Universal Public Distribution System (PDS).<br>
-            <b>5. Uttar Pradesh:</b> Most populous agrarian state, ranking first in national wheat, sugarcane, and potato production.<br><br>
+            <b style="color:#0284c7; font-size:15px;">Food Security, Granaries & PDS Hubs Map Guide:</b><br><br>
+            <b>1. Punjab:</b> 'Granary of India'; pioneer state of the Green Revolution in the 1960s led by Dr. M.S. Swaminathan utilizing High Yielding Variety (HYV) Kalyan Sona seeds, tube-well irrigation, and chemical fertilizers.<br>
+            <b>2. Haryana:</b> Key North-Western surplus food grain producer; forms a continuous agricultural wheat belt with Punjab and Western UP, contributing heavily to central buffer stocks.<br>
+            <b>3. Uttar Pradesh:</b> India's most populous agrarian state; ranks first in total national production of wheat, sugarcane, and potato, feeding national PDS grain allocation.<br>
+            <b>4. Thanjavur (Cauvery Delta):</b> 'Rice Bowl of Tamil Nadu' and 'Granary of South India'; fertile alluvial delta of River Cauvery supporting intensive triple-crop paddy cultivation.<br>
+            <b>5. Chennai:</b> Headquarters of the Tamil Nadu Civil Supplies Corporation (TNCSC), operating the pioneering Universal Public Distribution System (PDS) covering all families with free rice entitlement.<br>
+            <b>6. New Delhi:</b> National Headquarters of the Food Corporation of India (FCI), established under the Food Corporation Act 1964 to procure foodgrains at Minimum Support Price (MSP) and maintain national buffer stocks.<br><br>
             <div style="background:#eff6ff; border-left:4px solid #2563eb; padding:10px 14px; border-radius:6px; font-size:13px; color:#1e40af;">
-              <b>🎯 Board Exam Tip:</b> Dr. M.S. Swaminathan led India's Green Revolution. Mark Punjab in the northwest as the national granary and Thanjavur in Tamil Nadu as the regional rice bowl.
+              <b>🎯 Critical Board Exam Traps & Rules:</b><br>
+              • <b>Wheat Belt Uniformity:</b> Haryana is a core surplus wheat producer and must be shaded in the same amber/yellow tone as Punjab and UP, not green!<br>
+              • <b>Cauvery Delta vs. State Shading:</b> Never shade the entire state of Tamil Nadu green as a "Rice Delta"! Shade strictly the Cauvery Delta coastal district cluster (Thanjavur, Tiruvarur, Nagapattinam) with the indicator dot right at Thanjavur.<br>
+              • <b>PDS Hierarchy:</b> Distinguish between national buffer stock management (FCI HQ, New Delhi) and state universal distribution (TNCSC HQ, Chennai).
             </div>
           </div>`,
           explanation: "Key agrarian granary states, grain procurement centers, and public food distribution management hubs in India.",
           diagramImg: "images/soc_food_map.jpg",
-          diagramCaption: "India Map: Food Security Powerhouses and Granaries of India"
+          diagramCaption: "India Map: Food Security Powerhouses, Wheat Belt, Rice Delta and PDS Nodes"
         }
       ]
     }
@@ -220,3 +224,5 @@ const SOCIAL_EM_UNIT_12_DATA = {
 if (typeof module !== 'undefined' && module.exports) {
   module.exports = SOCIAL_EM_UNIT_12_DATA;
 }
+
+if (typeof window !== 'undefined') { window.SOCIAL_EM_UNIT_12_DATA = SOCIAL_EM_UNIT_12_DATA; }

diff --git a/data_social_em_u11.js b/data_social_em_u11.js
@@ -1,4 +1,4 @@
-// Class 10 Social Science - Civics Unit 3: State Government
+// Class 10 Social Science - Civics Unit 3: State Government
 // Tamil Nadu State Board Samacheer Kalvi Question-Answer Guide (English Medium)
 
 const SOCIAL_EM_UNIT_11_DATA = {
@@ -195,7 +195,7 @@ const SOCIAL_EM_UNIT_11_DATA = {
   ,
     {
       id: "sec_soc_em_11_map",
-      title: "Map Identification & Practice: State Government & High Courts (8M)",
+            title: "Map Identification & Practice: State Government & High Courts (8M)",
       author: "Civics Unit 3 Map Tutor",
       questions: [
         {
@@ -205,21 +205,25 @@ const SOCIAL_EM_UNIT_11_DATA = {
           examYear: "2024",
           examTag: "Board Exam Model Map",
           isImportant: true,
-          q: "On the given outline map of India, mark and label the state administrative capitals and High Court seats:<br>1. Chennai (Tamil Nadu State Secretariat at Fort St. George & Madras High Court, est. 1862)<br>2. Madurai (Madurai Bench of the Madras High Court, est. 2004)<br>3. Thiruvananthapuram (Capital city of Kerala State)<br>4. Bengaluru (Capital city of Karnataka State)<br>5. Hyderabad / Amaravati (Capitals of Telangana and Andhra Pradesh)",
+          q: "On the given outline map of India, mark and label the key administrative capitals, State Secretariats, and High Court seats of Peninsular India:<br>1. Chennai (Fort St. George - Tamil Nadu State Secretariat & Principal Seat of Madras High Court, est. 1862)<br>2. Madurai (Permanent Madurai Bench of the Madras High Court, inaugurated July 24, 2004)<br>3. Bengaluru (Capital of Karnataka State; seat of Vidhana Soudha State Legislature & Karnataka High Court - Attara Kacheri)<br>4. Thiruvananthapuram (Administrative capital & Secretariat of Kerala - Note: High Court of Kerala is at Kochi/Ernakulam)<br>5. Hyderabad (Capital city & Secretariat of Telangana State, seat of Telangana High Court)<br>6. Amaravati (Capital of Andhra Pradesh situated along River Krishna, seat of AP High Court at Nelapadu)",
           ans: `<div style="line-height:1.8;">
-            <b style="color:#0284c7; font-size:15px;">State Government Capitals & High Court Seats Map Guide:</b><br><br>
-            <b>1. Chennai:</b> Capital of Tamil Nadu; seat of Fort St. George (State Secretariat and Legislative Assembly) and the Principal Seat of the Madras High Court.<br>
-            <b>2. Madurai:</b> Cultural capital of southern Tamil Nadu; home to the permanent Madurai Bench of the Madras High Court inaugurated in 2004.<br>
-            <b>3. Thiruvananthapuram:</b> Administrative capital of the neighbouring state of Kerala.<br>
-            <b>4. Bengaluru:</b> Capital of Karnataka; seat of the Vidhana Soudha (State Legislature) and the High Court of Karnataka.<br>
-            <b>5. Hyderabad / Amaravati:</b> Administrative capitals of Telangana and Andhra Pradesh.<br><br>
+            <b style="color:#0284c7; font-size:15px;">Peninsular State Capitals & High Courts Map Guide:</b><br><br>
+            <b>1. Chennai:</b> Capital of Tamil Nadu located on the Coromandel coast; seat of Fort St. George (State Secretariat and Legislative Assembly) and the historic Madras High Court chartered in 1862.<br>
+            <b>2. Madurai:</b> Cultural hub of southern Tamil Nadu; home to the permanent Madurai Bench of the Madras High Court inaugurated on July 24, 2004, serving 14 southern districts.<br>
+            <b>3. Bengaluru:</b> Capital of Karnataka; seat of the Vidhana Soudha (State Legislature) and High Court of Karnataka (Attara Kacheri).<br>
+            <b>4. Thiruvananthapuram:</b> Administrative capital and State Secretariat of Kerala located at the southern tip. (Crucial exam point: High Court of Kerala and Lakshadweep is situated at Kochi/Ernakulam, not in the capital).<br>
+            <b>5. Hyderabad:</b> Capital of Telangana located in central-western Telangana; seat of the Telangana State Secretariat and Telangana High Court.<br>
+            <b>6. Amaravati:</b> De jure capital city of Andhra Pradesh situated on the banks of River Krishna near Vijayawada/Guntur; seat of the Andhra Pradesh High Court at Nelapadu.<br><br>
             <div style="background:#eff6ff; border-left:4px solid #2563eb; padding:10px 14px; border-radius:6px; font-size:13px; color:#1e40af;">
-              <b>🎯 Board Exam Tip:</b> Under Article 214, each state has a High Court. Distinctly mark the two judicial seats of Tamil Nadu: Chennai (Principal Seat, 1862) and Madurai (Circuit Bench, 2004).
+              <b>🎯 Critical Board Exam Traps & Rules:</b><br>
+              • <b>Separate Hyderabad and Amaravati:</b> Never bundle them on the border! Mark Hyderabad distinctly in central-western Telangana and Amaravati in central coastal Andhra Pradesh along the Krishna River.<br>
+              • <b>Judicial Seats Outside Capitals:</b> In Kerala, the High Court is at <i>Kochi (Ernakulam)</i>, not Thiruvananthapuram. In Tamil Nadu, distinctly mark both Chennai (Principal Seat, 1862) and Madurai (Circuit Bench, 2004).<br>
+              • <b>Palk Strait:</b> Lies exclusively between southeastern Tamil Nadu and northern Sri Lanka (never off the Andhra coast).
             </div>
           </div>`,
-          explanation: "State administrative headquarters, executive secretariats, and High Court judicial seats in South India.",
+          explanation: "Accurate cartographic positioning of state executive secretariats, legislative assemblies, and High Court judicial seats in Peninsular India.",
           diagramImg: "images/soc_stategov_map.jpg",
-          diagramCaption: "India Map: State Capitals and High Court Seats of South India"
+          diagramCaption: "India Map: State Capitals, Secretariats and High Courts of Peninsular India"
         }
       ]
     }
@@ -229,3 +233,5 @@ const SOCIAL_EM_UNIT_11_DATA = {
 if (typeof module !== 'undefined' && module.exports) {
   module.exports = SOCIAL_EM_UNIT_11_DATA;
 }
+
+if (typeof window !== 'undefined') { window.SOCIAL_EM_UNIT_11_DATA = SOCIAL_EM_UNIT_11_DATA; }

diff --git a/index.html b/index.html
@@ -159,9 +159,9 @@
 <script src="data_science_em_u5.js?v=20261031_v31"></script>
 <script src="data_science_em_u6.js?v=20261031_v31"></script>
 <script src="data_social_u5.js?v=20261110_v65"></script>
-<script src="data_social_u6.js?v=20261110_v65"></script>
+<script src="data_social_u6.js?v=20261111_v67"></script>
 <script src="data_social_em_u5.js?v=20261110_v65"></script>
-<script src="data_social_em_u6.js?v=20261110_v65"></script>
+<script src="data_social_em_u6.js?v=20261111_v67"></script>
 <script src="data_science_u7.js?v=20261031_v33"></script>
 <script src="data_science_u8.js?v=20261031_v33"></script>
 <script src="data_science_em_u7.js?v=20261031_v33"></script>
@@ -182,10 +182,10 @@
 <script src="data_science_u12.js?v=20261105_v57"></script>
 <script src="data_science_em_u11.js?v=20261105_v57"></script>
 <script src="data_science_em_u12.js?v=20261105_v57"></script>
-<script src="data_social_u11.js?v=20261110_v65"></script>
-<script src="data_social_u12.js?v=20261110_v65"></script>
-<script src="data_social_em_u11.js?v=20261110_v65"></script>
-<script src="data_social_em_u12.js?v=20261110_v65"></script>
+<script src="data_social_u11.js?v=20261111_v67"></script>
+<script src="data_social_u12.js?v=20261111_v67"></script>
+<script src="data_social_em_u11.js?v=20261111_v67"></script>
+<script src="data_social_em_u12.js?v=20261111_v67"></script>
 <script src="map_data_and_engine.js?v=20261110_v65"></script>
 <style>
   :root {

diff --git a/sw.js b/sw.js
@@ -4,7 +4,7 @@
 // Zero-Downtime Architecture - Auto-Update on Deploy Engine
 // =======================================================================
 
-const CACHE_NAME = 'vm-offline-v20261110_v66';
+const CACHE_NAME = 'vm-offline-v20261111_v67';
 
 // Core essential assets for instant offline app shell and subject question banks
 const PRECACHE_ASSETS = [
